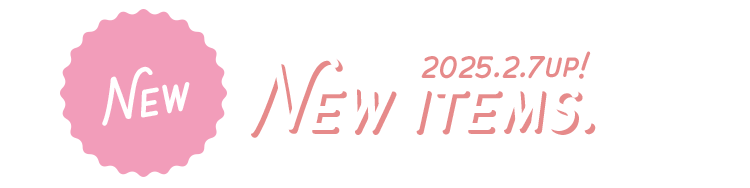
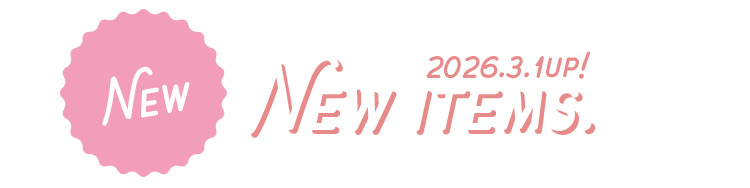
260301
orz up

Changed region(s): [[0.552, 0.2926, 0.736, 0.4255]]

diff --git a/new/index.html b/new/index.html
@@ -2,7 +2,7 @@
 <html lang="ja">
 <head>
   <meta charset="UTF-8">
-  <meta name="viewport" content="width=devsm05-width,initial-scale=1">
+  <meta name="viewport" content="width=devorz-width,initial-scale=1">
   <title>【すの担のためのフリー素材サイト】Free Icon & Header (made by mikan)</title>
   <link rel="shortcut icon" href="/i_and_h_mkn/favicon.ico">
   <link rel="apple-touch-icon" href="/i_and_h_mkn/apple-touch-icon.png">
@@ -37,40 +37,30 @@
     <div class="section">
 
       <div class="area_item">
-        <a id="mg2026bd" class="anchor"></a>
-        <p class="new_icon">目黒蓮誕生祭2026</p>
-        <div class="area_archives">
-          <a href="#" class="link_hidden"><img src="#" class="img_hidden"></a>
-          <a href="/i_and_h_mkn/img/archives/20260216_ic.png" onclick="gtag('send','event','sozai-page','img-click','目黒蓮誕生祭2026 アイコン', 1);"><img src="/i_and_h_mkn/img/archives/20260216_ic.png" alt="目黒蓮誕生祭2026 アイコン"></a>
-          <a href="/i_and_h_mkn/img/archives/20260216_hd.png" onclick="gtag('send','event','sozai-page','img-click','目黒蓮誕生祭2026 ヘッダー', 1);"><img src="/i_and_h_mkn/img/archives/20260216_hd.png" alt="目黒蓮誕生祭2026 ヘッダー"></a>
-        </div>
-      </div>
-
-      <div class="area_item">
         <a id="xms" class="anchor"></a>
-        <p class="new_icon">雪だるま(クリスマス)</p>
+        <p class="new_icon">オドロウゼ！</p>
         <div class="area_icon">
-          <a href="/i_and_h_mkn/img/icon/fk/ic_fk_sm05.png" onclick="gtag('send','event','sozai-page','img-click','image', 1);"><img src="/i_and_h_mkn/img/icon/fk/ic_fk_sm05.png" alt="雪だるま(クリスマス) 深澤辰哉 アイコン"></a>
-          <a href="/i_and_h_mkn/img/icon/sk/ic_sk_sm05.png" onclick="gtag('send','event','sozai-page','img-click','image', 1);"><img src="/i_and_h_mkn/img/icon/sk/ic_sk_sm05.png" alt="雪だるま(クリスマス) 佐久間大介 アイコン"></a>
-          <a href="/i_and_h_mkn/img/icon/nb/ic_nb_sm05.png" onclick="gtag('send','event','sozai-page','img-click','image', 1);"><img src="/i_and_h_mkn/img/icon/nb/ic_nb_sm05.png" alt="雪だるま(クリスマス) 渡辺翔太 アイコン"></a>
-          <a href="/i_and_h_mkn/img/icon/dt/ic_dt_sm05.png" onclick="gtag('send','event','sozai-page','img-click','image', 1);"><img src="/i_and_h_mkn/img/icon/dt/ic_dt_sm05.png" alt="カリスマックス 宮舘涼太 アイコン"></a>
-          <a href="/i_and_h_mkn/img/icon/iw/ic_iw_sm05.png" onclick="gtag('send','event','sozai-page','img-click','image', 1);"><img src="/i_and_h_mkn/img/icon/iw/ic_iw_sm05.png" alt="カリスマックス 岩本照 アイコン"></a>          
-          <a href="/i_and_h_mkn/img/icon/ab/ic_ab_sm05.png" onclick="gtag('send','event','sozai-page','img-click','image', 1);"><img src="/i_and_h_mkn/img/icon/ab/ic_ab_sm05.png" alt="雪だるま(クリスマス) 阿部亮平 アイコン"></a>
-          <a href="/i_and_h_mkn/img/icon/kj/ic_kj_sm05.png" onclick="gtag('send','event','sozai-page','img-click','image', 1);"><img src="/i_and_h_mkn/img/icon/kj/ic_kj_sm05.png" alt="雪だるま(クリスマス) 向井康二 アイコン"></a>
-          <a href="/i_and_h_mkn/img/icon/mg/ic_mg_sm05.png" onclick="gtag('send','event','sozai-page','img-click','image', 1);"><img src="/i_and_h_mkn/img/icon/mg/ic_mg_sm05.png" alt="カリスマックス 目黒蓮 アイコン"></a>
-          <a href="/i_and_h_mkn/img/icon/ru/ic_ru_sm05.png" onclick="gtag('send','event','sozai-page','img-click','image', 1);"><img src="/i_and_h_mkn/img/icon/ru/ic_ru_sm05.png" alt="雪だるま(クリスマス) ラウール アイコン"></a>
+          <a href="/i_and_h_mkn/img/icon/fk/ic_fk_orz.png" onclick="gtag('send','event','sozai-page','img-click','image', 1);"><img src="/i_and_h_mkn/img/icon/fk/ic_fk_orz.png" alt="オドロウゼ！ 深澤辰哉 アイコン"></a>
+          <a href="/i_and_h_mkn/img/icon/sk/ic_sk_orz.png" onclick="gtag('send','event','sozai-page','img-click','image', 1);"><img src="/i_and_h_mkn/img/icon/sk/ic_sk_orz.png" alt="オドロウゼ！ 佐久間大介 アイコン"></a>
+          <a href="/i_and_h_mkn/img/icon/nb/ic_nb_orz.png" onclick="gtag('send','event','sozai-page','img-click','image', 1);"><img src="/i_and_h_mkn/img/icon/nb/ic_nb_orz.png" alt="オドロウゼ！ 渡辺翔太 アイコン"></a>
+          <a href="/i_and_h_mkn/img/icon/dt/ic_dt_orz.png" onclick="gtag('send','event','sozai-page','img-click','image', 1);"><img src="/i_and_h_mkn/img/icon/dt/ic_dt_orz.png" alt="オドロウゼ！ 宮舘涼太 アイコン"></a>
+          <a href="/i_and_h_mkn/img/icon/iw/ic_iw_orz.png" onclick="gtag('send','event','sozai-page','img-click','image', 1);"><img src="/i_and_h_mkn/img/icon/iw/ic_iw_orz.png" alt="オドロウゼ！ 岩本照 アイコン"></a>          
+          <a href="/i_and_h_mkn/img/icon/ab/ic_ab_orz.png" onclick="gtag('send','event','sozai-page','img-click','image', 1);"><img src="/i_and_h_mkn/img/icon/ab/ic_ab_orz.png" alt="オドロウゼ！ 阿部亮平 アイコン"></a>
+          <a href="/i_and_h_mkn/img/icon/kj/ic_kj_orz.png" onclick="gtag('send','event','sozai-page','img-click','image', 1);"><img src="/i_and_h_mkn/img/icon/kj/ic_kj_orz.png" alt="オドロウゼ！ 向井康二 アイコン"></a>
+          <a href="/i_and_h_mkn/img/icon/mg/ic_mg_orz.png" onclick="gtag('send','event','sozai-page','img-click','image', 1);"><img src="/i_and_h_mkn/img/icon/mg/ic_mg_orz.png" alt="オドロウゼ！ 目黒蓮 アイコン"></a>
+          <a href="/i_and_h_mkn/img/icon/ru/ic_ru_orz.png" onclick="gtag('send','event','sozai-page','img-click','image', 1);"><img src="/i_and_h_mkn/img/icon/ru/ic_ru_orz.png" alt="オドロウゼ！ ラウール アイコン"></a>
         </div>
         <div class="area_header">
-          <a href="/i_and_h_mkn/img/header/all/hd_all_sm04.png" onclick="gtag('send','event','sozai-page','img-click','雪だるま(背景チェック柄) SnowMan ヘッダー', 1);"><img src="/i_and_h_mkn/img/header/all/hd_all_sm04.png" alt="雪だるま(クリスマス) SnowMan ヘッダー"></a>
-          <a href="/i_and_h_mkn/img/header/fk/hd_fk_sm05.png" onclick="gtag('send','event','sozai-page','img-click','image', 1);"><img src="/i_and_h_mkn/img/header/fk/hd_fk_sm05.png" alt="雪だるま(クリスマス) 深澤辰哉 ヘッダー"></a>
-          <a href="/i_and_h_mkn/img/header/sk/hd_sk_sm05.png" onclick="gtag('send','event','sozai-page','img-click','image', 1);"><img src="/i_and_h_mkn/img/header/sk/hd_sk_sm05.png" alt="カリスマックス 佐久間大介 ヘッダー"></a>
-          <a href="/i_and_h_mkn/img/header/nb/hd_nb_sm05.png" onclick="gtag('send','event','sozai-page','img-click','image', 1);"><img src="/i_and_h_mkn/img/header/nb/hd_nb_sm05.png" alt="雪だるま(クリスマス) 渡辺翔太 ヘッダー"></a>
-          <a href="/i_and_h_mkn/img/header/dt/hd_dt_sm05.png" onclick="gtag('send','event','sozai-page','img-click','image', 1);"><img src="/i_and_h_mkn/img/header/dt/hd_dt_sm05.png" alt="雪だるま(クリスマス) 宮舘涼太 ヘッダー"></a>
-          <a href="/i_and_h_mkn/img/header/iw/hd_iw_sm05.png" onclick="gtag('send','event','sozai-page','img-click','image', 1);"><img src="/i_and_h_mkn/img/header/iw/hd_iw_sm05.png" alt="カリスマックス 岩本照 ヘッダー"></a>
-          <a href="/i_and_h_mkn/img/header/ab/hd_ab_sm05.png" onclick="gtag('send','event','sozai-page','img-click','image', 1);"><img src="/i_and_h_mkn/img/header/ab/hd_ab_sm05.png" alt="雪だるま(クリスマス) 阿部亮平 ヘッダー"></a>
-          <a href="/i_and_h_mkn/img/header/kj/hd_kj_sm05.png" onclick="gtag('send','event','sozai-page','img-click','image', 1);"><img src="/i_and_h_mkn/img/header/kj/hd_kj_sm05.png" alt="雪だるま(クリスマス) 向井康二 ヘッダー"></a>
-          <a href="/i_and_h_mkn/img/header/mg/hd_mg_sm05.png" onclick="gtag('send','event','sozai-page','img-click','image', 1);"><img src="/i_and_h_mkn/img/header/mg/hd_mg_sm05.png" alt="雪だるま(クリスマス) 目黒蓮 ヘッダー"></a>
-          <a href="/i_and_h_mkn/img/header/ru/hd_ru_sm05.png" onclick="gtag('send','event','sozai-page','img-click','image', 1);"><img src="/i_and_h_mkn/img/header/ru/hd_ru_sm05.png" alt="カリスマックス ラウール ヘッダー"></a>
+          <a href="/i_and_h_mkn/img/header/all/hd_all_orz.png" onclick="gtag('send','event','sozai-page','img-click','オドロウゼ！ SnowMan ヘッダー', 1);"><img src="/i_and_h_mkn/img/header/all/hd_all_orz.png" alt="オドロウゼ！ SnowMan ヘッダー"></a>
+          <a href="/i_and_h_mkn/img/header/fk/hd_fk_orz.png" onclick="gtag('send','event','sozai-page','img-click','image', 1);"><img src="/i_and_h_mkn/img/header/fk/hd_fk_orz.png" alt="オドロウゼ！ 深澤辰哉 ヘッダー"></a>
+          <a href="/i_and_h_mkn/img/header/sk/hd_sk_orz.png" onclick="gtag('send','event','sozai-page','img-click','image', 1);"><img src="/i_and_h_mkn/img/header/sk/hd_sk_orz.png" alt="オドロウゼ！ 佐久間大介 ヘッダー"></a>
+          <a href="/i_and_h_mkn/img/header/nb/hd_nb_orz.png" onclick="gtag('send','event','sozai-page','img-click','image', 1);"><img src="/i_and_h_mkn/img/header/nb/hd_nb_orz.png" alt="オドロウゼ！ 渡辺翔太 ヘッダー"></a>
+          <a href="/i_and_h_mkn/img/header/dt/hd_dt_orz.png" onclick="gtag('send','event','sozai-page','img-click','image', 1);"><img src="/i_and_h_mkn/img/header/dt/hd_dt_orz.png" alt="オドロウゼ！ 宮舘涼太 ヘッダー"></a>
+          <a href="/i_and_h_mkn/img/header/iw/hd_iw_orz.png" onclick="gtag('send','event','sozai-page','img-click','image', 1);"><img src="/i_and_h_mkn/img/header/iw/hd_iw_orz.png" alt="オドロウゼ！ 岩本照 ヘッダー"></a>
+          <a href="/i_and_h_mkn/img/header/ab/hd_ab_orz.png" onclick="gtag('send','event','sozai-page','img-click','image', 1);"><img src="/i_and_h_mkn/img/header/ab/hd_ab_orz.png" alt="オドロウゼ！ 阿部亮平 ヘッダー"></a>
+          <a href="/i_and_h_mkn/img/header/kj/hd_kj_orz.png" onclick="gtag('send','event','sozai-page','img-click','image', 1);"><img src="/i_and_h_mkn/img/header/kj/hd_kj_orz.png" alt="オドロウゼ！ 向井康二 ヘッダー"></a>
+          <a href="/i_and_h_mkn/img/header/mg/hd_mg_orz.png" onclick="gtag('send','event','sozai-page','img-click','image', 1);"><img src="/i_and_h_mkn/img/header/mg/hd_mg_orz.png" alt="オドロウゼ！ 目黒蓮 ヘッダー"></a>
+          <a href="/i_and_h_mkn/img/header/ru/hd_ru_orz.png" onclick="gtag('send','event','sozai-page','img-click','image', 1);"><img src="/i_and_h_mkn/img/header/ru/hd_ru_orz.png" alt="オドロウゼ！ ラウール ヘッダー"></a>
         </div>
         </div>
       </div>

diff --git a/sk/index.html b/sk/index.html
@@ -36,7 +36,8 @@
       <form>
         <select name="menu">
           <option>こちらから選択してください</option>
-          <option value="#xms">雪だるま(クリスマス) [New]</option>
+          <option value="#orz">オドロウゼ！ [New]</option>
+          <option value="#xms">雪だるま(クリスマス)</option>
           <option value="#ice">雪だるま風アイス</option>
           <option value="#sm04">溶けかけ雪だるま</option>
           <option value="#csm">カリスマックス</option>
@@ -74,8 +75,19 @@
     <div class="section">
 
       <div class="area_item">
+        <a id="orz" class="anchor"></a>
+        <p class="new_icon">オドロウゼ！</p>
+        <div class="area_icon">
+          <a href="/i_and_h_mkn/img/icon/sk/ic_sk_orz.png" onclick="gtag('send','event','sozai-page','img-click','image', 1);"><img src="/i_and_h_mkn/img/icon/sk/ic_sk_orz.png" alt="オドロウゼ！ 佐久間大介 アイコン"></a>
+        </div>
+        <div class="area_header">
+          <a href="/i_and_h_mkn/img/header/sk/hd_sk_orz.png" onclick="gtag('send','event','sozai-page','img-click','image', 1);"><img src="/i_and_h_mkn/img/header/sk/hd_sk_orz.png" alt="オドロウゼ！ 佐久間大介 ヘッダー"></a>
+        </div>
+      </div>
+
+      <div class="area_item">
         <a id="xms" class="anchor"></a>
-        <p class="new_icon">雪だるま(クリスマス)</p>
+        <p>雪だるま(クリスマス)</p>
         <div class="area_icon">
           <a href="/i_and_h_mkn/img/icon/sk/ic_sk_sm05.png" onclick="gtag('send','event','sozai-page','img-click','image', 1);"><img src="/i_and_h_mkn/img/icon/sk/ic_sk_sm05.png" alt="雪だるま(クリスマス) 佐久間大介 アイコン"></a>
         </div>

diff --git a/iw/index.html b/iw/index.html
@@ -39,7 +39,8 @@
       <form>
         <select name="menu">
           <option>こちらから選択してください</option>
-          <option value="#xms">雪だるま(クリスマス) [New]</option>
+          <option value="#orz">オドロウゼ！ [New]</option>
+          <option value="#xms">雪だるま(クリスマス)</option>
           <option value="#ice">雪だるま風アイス</option>
           <option value="#sm04">溶けかけ雪だるま</option>
           <option value="#csm">カリスマックス</option>
@@ -77,8 +78,19 @@
     <div class="section">
 
       <div class="area_item">
+        <a id="orz" class="anchor"></a>
+        <p class="new_icon">オドロウゼ！</p>
+        <div class="area_icon">
+          <a href="/i_and_h_mkn/img/icon/iw/ic_iw_orz.png" onclick="gtag('send','event','sozai-page','img-click','image', 1);"><img src="/i_and_h_mkn/img/icon/iw/ic_iw_orz.png" alt="オドロウゼ！ 岩本照 アイコン"></a>          
+        </div>
+        <div class="area_header">
+          <a href="/i_and_h_mkn/img/header/iw/hd_iw_orz.png" onclick="gtag('send','event','sozai-page','img-click','image', 1);"><img src="/i_and_h_mkn/img/header/iw/hd_iw_orz.png" alt="オドロウゼ！ 岩本照 ヘッダー"></a>
+        </div>
+      </div>
+
+      <div class="area_item">
         <a id="xms" class="anchor"></a>
-        <p class="new_icon">雪だるま(クリスマス)</p>
+        <p>雪だるま(クリスマス)</p>
         <div class="area_icon">
           <a href="/i_and_h_mkn/img/icon/iw/ic_iw_sm05.png" onclick="gtag('send','event','sozai-page','img-click','image', 1);"><img src="/i_and_h_mkn/img/icon/iw/ic_iw_sm05.png" alt="カリスマックス 岩本照 アイコン"></a>          
         </div>

diff --git a/ab/index.html b/ab/index.html
@@ -39,7 +39,8 @@
       <form>
         <select name="menu">
           <option>こちらから選択してください</option>
-          <option value="#xms">雪だるま(クリスマス) [New]</option>
+          <option value="#orz">オドロウゼ！ [New]</option>
+          <option value="#xms">雪だるま(クリスマス)</option>
           <option value="#ice">雪だるま風アイス</option>
           <option value="#sm04">溶けかけ雪だるま</option>
           <option value="#csm">カリスマックス</option>
@@ -77,8 +78,19 @@
     <div class="section">
 
       <div class="area_item">
+        <a id="orz" class="anchor"></a>
+        <p class="new_icon">オドロウゼ！</p>
+        <div class="area_icon">
+          <a href="/i_and_h_mkn/img/icon/ab/ic_ab_orz.png" onclick="gtag('send','event','sozai-page','img-click','image', 1);"><img src="/i_and_h_mkn/img/icon/ab/ic_ab_orz.png" alt="オドロウゼ！ 阿部亮平 アイコン"></a>
+        </div>
+        <div class="area_header">
+          <a href="/i_and_h_mkn/img/header/ab/hd_ab_orz.png" onclick="gtag('send','event','sozai-page','img-click','image', 1);"><img src="/i_and_h_mkn/img/header/ab/hd_ab_orz.png" alt="オドロウゼ！ 阿部亮平 ヘッダー"></a>
+        </div>
+      </div>
+
+      <div class="area_item">
         <a id="xms" class="anchor"></a>
-        <p class="new_icon">雪だるま(クリスマス)</p>
+        <p>雪だるま(クリスマス)</p>
         <div class="area_icon">
           <a href="/i_and_h_mkn/img/icon/ab/ic_ab_sm05.png" onclick="gtag('send','event','sozai-page','img-click','image', 1);"><img src="/i_and_h_mkn/img/icon/ab/ic_ab_sm05.png" alt="雪だるま(クリスマス) 阿部亮平 アイコン"></a>
         </div>

diff --git a/fk/index.html b/fk/index.html
@@ -35,7 +35,8 @@
       <form>
         <select name="menu">
           <option>こちらから選択してください</option>
-          <option value="#xms">雪だるま(クリスマス) [New]</option>
+          <option value="#orz">オドロウゼ！ [New]</option>
+          <option value="#xms">雪だるま(クリスマス)</option>
           <option value="#ice">雪だるま風アイス</option>
           <option value="#sm04">溶けかけ雪だるま</option>
           <option value="#csm">カリスマックス</option>
@@ -73,8 +74,19 @@
     <div class="section">
 
       <div class="area_item">
+        <a id="orz" class="anchor"></a>
+        <p class="new_icon">オドロウゼ！</p>
+        <div class="area_icon">
+          <a href="/i_and_h_mkn/img/icon/fk/ic_fk_orz.png" onclick="gtag('send','event','sozai-page','img-click','image', 1);"><img src="/i_and_h_mkn/img/icon/fk/ic_fk_orz.png" alt="オドロウゼ！ 深澤辰哉 アイコン"></a>
+        </div>
+        <div class="area_header">
+          <a href="/i_and_h_mkn/img/header/fk/hd_fk_orz.png" onclick="gtag('send','event','sozai-page','img-click','image', 1);"><img src="/i_and_h_mkn/img/header/fk/hd_fk_orz.png" alt="オドロウゼ！ 深澤辰哉 ヘッダー"></a>
+        </div>
+      </div>
+
+      <div class="area_item">
         <a id="xms" class="anchor"></a>
-        <p class="new_icon">雪だるま(クリスマス)</p>
+        <p>雪だるま(クリスマス)</p>
         <div class="area_icon">
           <a href="/i_and_h_mkn/img/icon/fk/ic_fk_sm05.png" onclick="gtag('send','event','sozai-page','img-click','image', 1);"><img src="/i_and_h_mkn/img/icon/fk/ic_fk_sm05.png" alt="雪だるま(クリスマス) 深澤辰哉 アイコン"></a>
         </div>

diff --git a/kj/index.html b/kj/index.html
@@ -39,7 +39,8 @@
       <form>
         <select name="menu">
           <option>こちらから選択してください</option>
-          <option value="#xms">雪だるま(クリスマス) [New]</option>
+          <option value="#orz">オドロウゼ！ [New]</option>
+          <option value="#xms">雪だるま(クリスマス)</option>
           <option value="#ice">雪だるま風アイス</option>
           <option value="#sm04">溶けかけ雪だるま</option>
           <option value="#csm">カリスマックス</option>
@@ -77,8 +78,19 @@
     <div class="section">
 
       <div class="area_item">
+        <a id="orz" class="anchor"></a>
+        <p class="new_icon">オドロウゼ！</p>
+        <div class="area_icon">
+          <a href="/i_and_h_mkn/img/icon/kj/ic_kj_orz.png" onclick="gtag('send','event','sozai-page','img-click','image', 1);"><img src="/i_and_h_mkn/img/icon/kj/ic_kj_orz.png" alt="オドロウゼ！ 向井康二 アイコン"></a>
+        </div>
+        <div class="area_header">
+          <a href="/i_and_h_mkn/img/header/kj/hd_kj_orz.png" onclick="gtag('send','event','sozai-page','img-click','image', 1);"><img src="/i_and_h_mkn/img/header/kj/hd_kj_orz.png" alt="オドロウゼ！ 向井康二 ヘッダー"></a>
+        </div>
+      </div>
+
+      <div class="area_item">
         <a id="xms" class="anchor"></a>
-        <p class="new_icon">雪だるま(クリスマス)</p>
+        <p>雪だるま(クリスマス)</p>
         <div class="area_icon">
           <a href="/i_and_h_mkn/img/icon/kj/ic_kj_sm05.png" onclick="gtag('send','event','sozai-page','img-click','image', 1);"><img src="/i_and_h_mkn/img/icon/kj/ic_kj_sm05.png" alt="雪だるま(クリスマス) 向井康二 アイコン"></a>
         </div>

diff --git a/nb/index.html b/nb/index.html
@@ -39,7 +39,8 @@
       <form>
         <select name="menu">
           <option>こちらから選択してください</option>
-          <option value="#xms">雪だるま(クリスマス) [New]</option>
+          <option value="#orz">オドロウゼ！ [New]</option>
+          <option value="#xms">雪だるま(クリスマス)</option>
           <option value="#ice">雪だるま風アイス</option>
           <option value="#sm04">溶けかけ雪だるま</option>
           <option value="#csm">カリスマックス</option>
@@ -77,8 +78,19 @@
     <div class="section">
 
       <div class="area_item">
+        <a id="orz" class="anchor"></a>
+        <p class="new_icon">オドロウゼ！</p>
+        <div class="area_icon">
+          <a href="/i_and_h_mkn/img/icon/nb/ic_nb_orz.png" onclick="gtag('send','event','sozai-page','img-click','image', 1);"><img src="/i_and_h_mkn/img/icon/nb/ic_nb_orz.png" alt="オドロウゼ！ 渡辺翔太 アイコン"></a>
+        </div>
+        <div class="area_header">
+          <a href="/i_and_h_mkn/img/header/nb/hd_nb_orz.png" onclick="gtag('send','event','sozai-page','img-click','image', 1);"><img src="/i_and_h_mkn/img/header/nb/hd_nb_orz.png" alt="オドロウゼ！ 渡辺翔太 ヘッダー"></a>
+        </div>
+      </div>
+
+      <div class="area_item">
         <a id="xms" class="anchor"></a>
-        <p class="new_icon">雪だるま(クリスマス)</p>
+        <p>雪だるま(クリスマス)</p>
         <div class="area_icon">
           <a href="/i_and_h_mkn/img/icon/nb/ic_nb_sm05.png" onclick="gtag('send','event','sozai-page','img-click','image', 1);"><img src="/i_and_h_mkn/img/icon/nb/ic_nb_sm05.png" alt="雪だるま(クリスマス) 渡辺翔太 アイコン"></a>
         </div>

diff --git a/ru/index.html b/ru/index.html
@@ -39,7 +39,8 @@
       <form>
         <select name="menu">
           <option>こちらから選択してください</option>
-          <option value="#xms">雪だるま(クリスマス) [New]</option>
+          <option value="#orz">オドロウゼ！ [New]</option>
+          <option value="#xms">雪だるま(クリスマス)</option>
           <option value="#ice">雪だるま風アイス</option>
           <option value="#sm04">溶けかけ雪だるま</option>
           <option value="#csm">カリスマックス</option>
@@ -78,8 +79,19 @@
     <div class="section">
 
       <div class="area_item">
+        <a id="orz" class="anchor"></a>
+        <p class="new_icon">オドロウゼ！</p>
+        <div class="area_icon">
+          <a href="/i_and_h_mkn/img/icon/ru/ic_ru_orz.png" onclick="gtag('send','event','sozai-page','img-click','image', 1);"><img src="/i_and_h_mkn/img/icon/ru/ic_ru_orz.png" alt="オドロウゼ！ ラウール アイコン"></a>
+        </div>
+        <div class="area_header">
+          <a href="/i_and_h_mkn/img/header/ru/hd_ru_orz.png" onclick="gtag('send','event','sozai-page','img-click','image', 1);"><img src="/i_and_h_mkn/img/header/ru/hd_ru_orz.png" alt="オドロウゼ！ ラウール ヘッダー"></a>
+        </div>
+      </div>
+
+      <div class="area_item">
         <a id="xms" class="anchor"></a>
-        <p class="new_icon">雪だるま(クリスマス)</p>
+        <p>雪だるま(クリスマス)</p>
         <div class="area_icon">
           <a href="/i_and_h_mkn/img/icon/ru/ic_ru_sm05.png" onclick="gtag('send','event','sozai-page','img-click','image', 1);"><img src="/i_and_h_mkn/img/icon/ru/ic_ru_sm05.png" alt="雪だるま(クリスマス) ラウール アイコン"></a>
         </div>

diff --git a/dt/index.html b/dt/index.html
@@ -36,7 +36,8 @@
       <form>
         <select name="menu">
           <option>こちらから選択してください</option>
-          <option value="#xms">雪だるま(クリスマス) [New]</option>
+          <option value="#orz">オドロウゼ！ [New]</option>
+          <option value="#xms">雪だるま(クリスマス)</option>
           <option value="#ice">雪だるま風アイス</option>
           <option value="#sm04">溶けかけ雪だるま</option>
           <option value="#csm">カリスマックス</option>
@@ -74,8 +75,19 @@
     <div class="section">
 
       <div class="area_item">
+        <a id="orz" class="anchor"></a>
+        <p class="new_icon">オドロウゼ！</p>
+        <div class="area_icon">
+          <a href="/i_and_h_mkn/img/icon/dt/ic_dt_orz.png" onclick="gtag('send','event','sozai-page','img-click','image', 1);"><img src="/i_and_h_mkn/img/icon/dt/ic_dt_orz.png" alt="オドロウゼ！ 宮舘涼太 アイコン"></a>
+        </div>
+        <div class="area_header">
+          <a href="/i_and_h_mkn/img/header/dt/hd_dt_orz.png" onclick="gtag('send','event','sozai-page','img-click','image', 1);"><img src="/i_and_h_mkn/img/header/dt/hd_dt_orz.png" alt="オドロウゼ！ 宮舘涼太 ヘッダー"></a>
+        </div>
+      </div>
+
+      <div class="area_item">
         <a id="xms" class="anchor"></a>
-        <p class="new_icon">雪だるま(クリスマス)</p>
+        <p>雪だるま(クリスマス)</p>
         <div class="area_icon">
           <a href="/i_and_h_mkn/img/icon/dt/ic_dt_sm05.png" onclick="gtag('send','event','sozai-page','img-click','image', 1);"><img src="/i_and_h_mkn/img/icon/dt/ic_dt_sm05.png" alt="カリスマックス 宮舘涼太 アイコン"></a>
         </div>

diff --git a/mg/index.html b/mg/index.html
@@ -39,7 +39,8 @@
       <form>
         <select name="menu">
           <option>こちらから選択してください</option>
-          <option value="#xms">雪だるま(クリスマス) [New]</option>
+          <option value="#orz">オドロウゼ！ [New]</option>
+          <option value="#xms">雪だるま(クリスマス)</option>
           <option value="#ice">雪だるま風アイス</option>
           <option value="#sm04">溶けかけ雪だるま</option>
           <option value="#csm">カリスマックス</option>
@@ -77,8 +78,19 @@
     <div class="section">
 
       <div class="area_item">
+        <a id="orz" class="anchor"></a>
+        <p class="new_icon">オドロウゼ！</p>
+        <div class="area_icon">
+          <a href="/i_and_h_mkn/img/icon/mg/ic_mg_orz.png" onclick="gtag('send','event','sozai-page','img-click','image', 1);"><img src="/i_and_h_mkn/img/icon/mg/ic_mg_orz.png" alt="オドロウゼ！ 目黒蓮 アイコン"></a>
+        </div>
+        <div class="area_header">
+          <a href="/i_and_h_mkn/img/header/mg/hd_mg_orz.png" onclick="gtag('send','event','sozai-page','img-click','image', 1);"><img src="/i_and_h_mkn/img/header/mg/hd_mg_orz.png" alt="オドロウゼ！ 目黒蓮 ヘッダー"></a>
+        </div>
+      </div>
+
+      <div class="area_item">
         <a id="xms" class="anchor"></a>
-        <p class="new_icon">雪だるま(クリスマス)</p>
+        <p>雪だるま(クリスマス)</p>
         <div class="area_icon">
           <a href="/i_and_h_mkn/img/icon/mg/ic_mg_sm05.png" onclick="gtag('send','event','sozai-page','img-click','image', 1);"><img src="/i_and_h_mkn/img/icon/mg/ic_mg_sm05.png" alt="カリスマックス 目黒蓮 アイコン"></a>
         </div>

diff --git a/all/index.html b/all/index.html
@@ -36,7 +36,8 @@
       <form>
         <select name="menu">
           <option>こちらから選択してください</option>
-          <option value="#xms">雪だるま(クリスマス) [New]</option>
+          <option value="#orz">オドロウゼ！ [New]</option>
+          <option value="#xms">雪だるま(クリスマス)</option>
           <option value="#csm">カリスマックス</option>
           <option value="#combi03">雪だるま(背景チェック柄/シンメ・コンビver)</option>
           <option value="#sm03">雪だるま(背景チェック柄)</option>
@@ -69,8 +70,16 @@
     <div class="section">
 
       <div class="area_item">
+        <a id="orz" class="anchor"></a>
+        <p class="new_icon">オドロウゼ！</p>
+        <div class="area_header">
+          <a href="/i_and_h_mkn/img/header/all/hd_all_orz.png" onclick="gtag('send','event','sozai-page','img-click','雪だるま(背景チェック柄) SnowMan ヘッダー', 1);"><img src="/i_and_h_mkn/img/header/all/hd_all_orz.png" alt="オドロウゼ！ SnowMan ヘッダー"></a>
+        </div>
+      </div>
+
+      <div class="area_item">
         <a id="xms" class="anchor"></a>
-        <p class="new_icon">雪だるま(クリスマス)</p>
+        <p>雪だるま(クリスマス)</p>
         <div class="area_header">
           <a href="/i_and_h_mkn/img/header/all/hd_all_sm04.png" onclick="gtag('send','event','sozai-page','img-click','雪だるま(背景チェック柄) SnowMan ヘッダー', 1);"><img src="/i_and_h_mkn/img/header/all/hd_all_sm04.png" alt="雪だるま(クリスマス) SnowMan ヘッダー"></a>
         </div>
